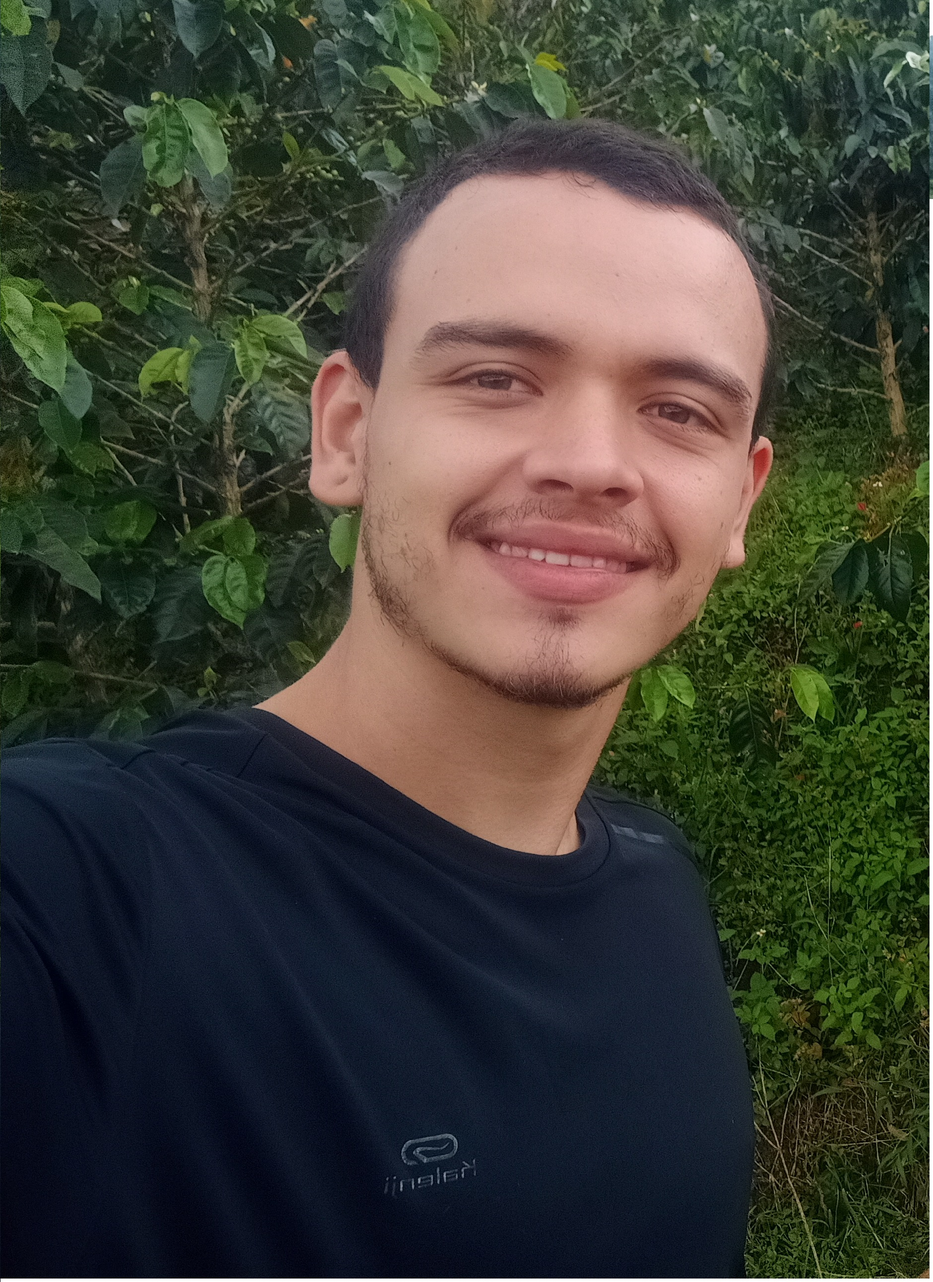
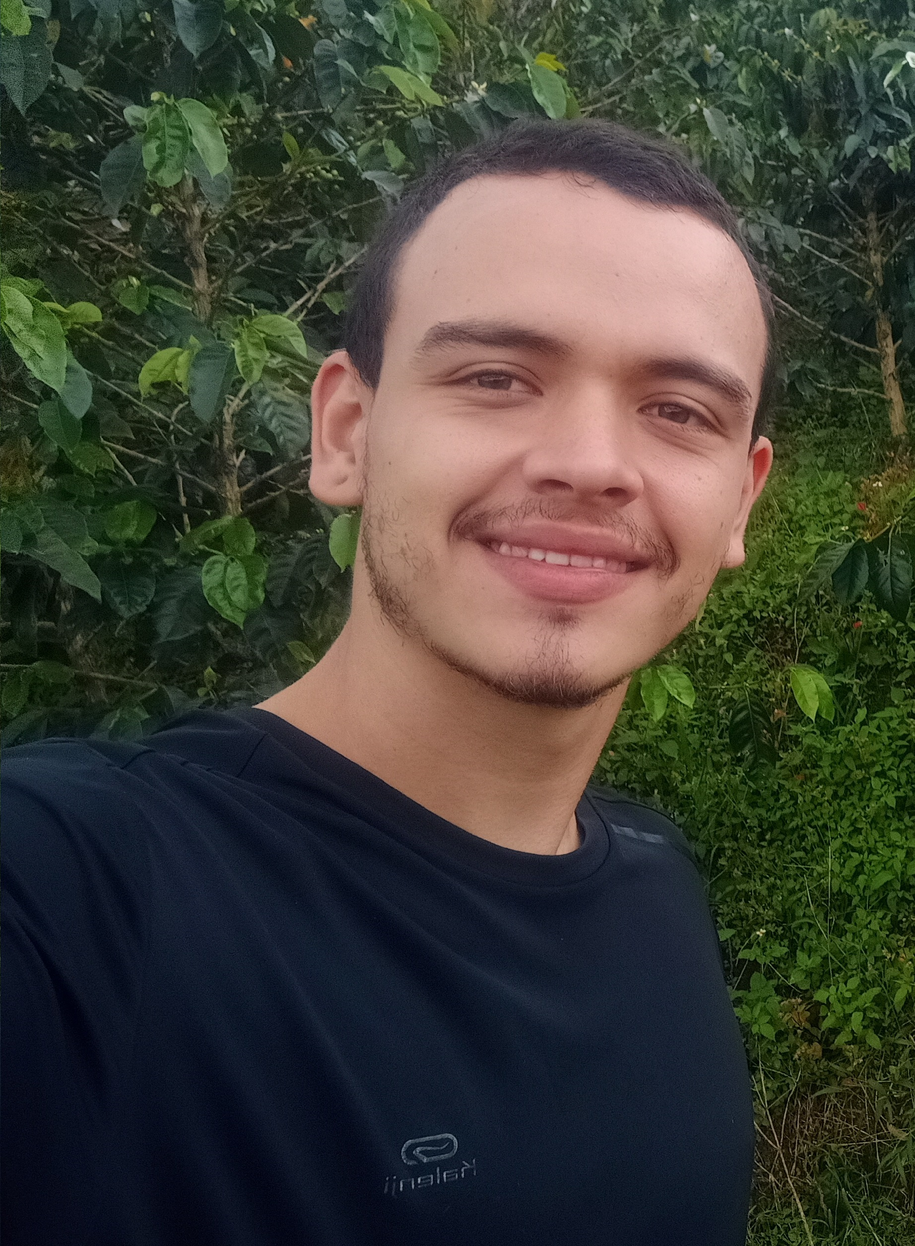
Changes on about layout

Changed region(s): [[0.0, 0.0, 1.0, 1.0], [0.4328, 0.8694, 0.5255, 0.9626]]

diff --git a/src/styles/About.module.css b/src/styles/About.module.css
@@ -5,6 +5,7 @@
   flex-direction: column;
   align-items: center;
   justify-content: space-around;
+  gap: 20%;
 }
 
 .photoAndDescription {
@@ -12,35 +13,34 @@
   flex-wrap: wrap;
   width: 90%;
   margin: 0 auto;
-}
-
-.image {
-  width: 70%;
-  max-width: 250px;
-  max-height: 250px;
-  margin: 0 auto;
+  justify-content: center;
+  align-items: center;
+  padding-top: 1rem;
+  gap: 40px;
 }
 
 .myImage {
-  height: 100%;
-  width: 100%;
+  height: auto;
+  width: max(250px, 15%);
   border-radius: 15px 50px ;
 }
 
 .myDescription {
   color: #fff;
-  width: 80%;
-  max-width: 500px;
-  margin: 10% auto;
+  width:max(40%, 300px);
   text-align: justify;
 }
 
 .phrase {
   width: 80%;
-  margin: 0 auto;
+  margin: 40px auto 20px auto;
   color: #fff;
   text-align: center;
+  display: flex;
+  flex-direction: column;
+  gap: 20px;
 }
+
 
 .buttonPhrase {
   width: 80%;

diff --git a/src/components/about.tsx b/src/components/about.tsx
@@ -16,13 +16,11 @@ function About({phraseData, counter, setCounter}: aboutProps) {
   return(
     <section className={styles.aboutSection}>
       <div className={styles.photoAndDescription}>
-        <div className={styles.image}>
-          <Image
-            className={styles.myImage}
-           alt='Photography of the author'
-            src={myPicture}
+        <Image
+          className={styles.myImage}
+          alt='Photography of the author'
+          src={myPicture}
           />
-        </div>
         <p className={styles.myDescription}>
           My name is
           <span> Alejandro Bernal Marín </span>

diff --git a/src/styles/globals.css b/src/styles/globals.css
@@ -37,4 +37,5 @@ main {
   text-align: center;
   max-width: 90%;
   margin: 0 auto;
+  padding-top: 2rem;
 }
